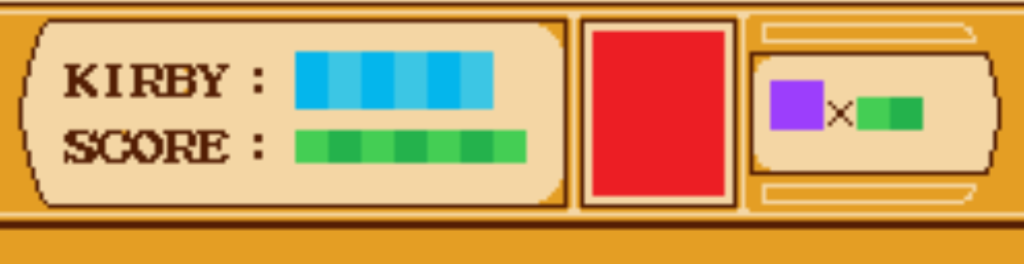
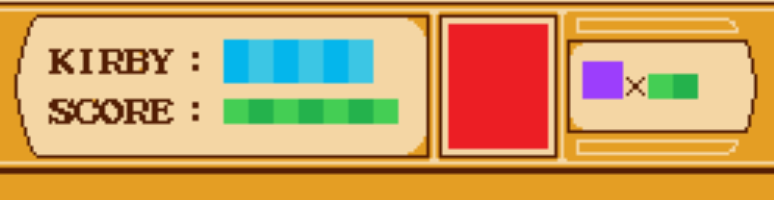
최예나 : UI 추가 및 위치 조정

diff --git a/WinAPI_Portfolio/ContentsProject/Score.h b/WinAPI_Portfolio/ContentsProject/Score.h
@@ -1,0 +1,42 @@
+#pragma once
+
+#include <EngineCore/Actor.h>
+
+class AScore : AActor
+{
+public:
+	// constrcuter destructer
+	AScore();
+	~AScore();
+
+	// delete Function
+	AScore(const AScore& _Other) = delete;
+	AScore(AScore&& _Other) noexcept = delete;
+	AScore& operator=(const AScore& _Other) = delete;
+	AScore& operator=(AScore&& _Other) noexcept = delete;
+
+	void SetTextSpriteName(const std::string _Text);
+
+	void SetTextScale(FVector2D _TextScale)
+	{
+		TextScale = _TextScale;
+	}
+
+	template<typename EnumType>
+	void SetOrder(EnumType _Order)
+	{
+		SetOrder(static_cast<int>(_Order));
+	}
+
+	void SetOrder(int _Order);
+
+	void SetValue(int _Score);
+
+protected:
+
+private:
+	std::string TextSpriteName;
+	FVector2D TextScale;
+	std::vector<class USpriteRenderer*> Renders;
+};
+

diff --git a/WinAPI_Portfolio/ContentsProject/HUI.cpp b/WinAPI_Portfolio/ContentsProject/HUI.cpp
@@ -1,6 +1,7 @@
 #include "PreCompile.h"
 #include "HUI.h"
 
+#include <EngineCore/EngineAPICore.h>
 #include <EngineCore/SpriteRenderer.h>
 
 #include "ContentsEnum.h"
@@ -20,7 +21,10 @@ void AHUI::SetSprite(std::string _Sprite)
 {
 		SpriteRenderer->SetSprite(_Sprite);
 
-		MapScale = SpriteRenderer->SetSpriteScale(0.75f);
-		SpriteRenderer->SetComponentLocation(MapScale.Half() + FVector2D({0, 525}));
+		MapScale = SpriteRenderer->SetSpriteScale(1.0f);
+
+		FVector2D Size = UEngineAPICore::GetCore()->GetMainWindow().GetWindowSize();
+		FVector2D Pos = { 0.0f, Size.Y - MapScale.Y };
+		SpriteRenderer->SetComponentLocation(MapScale.Half() + Pos);
 }
 

diff --git a/WinAPI_Portfolio/ContentsProject/Stage102GameMode.cpp b/WinAPI_Portfolio/ContentsProject/Stage102GameMode.cpp
@@ -25,9 +25,11 @@ void AStage102GameMode::BeginPlay()
 	NewActor = GetWorld()->SpawnActor<AStage>();
 	NewActor->SetSprite("Stage102.png");
 	NewActor->SetColSprite("ColStage102.png");
+
 	APlayer* Player = dynamic_cast<APlayer*>(GetWorld()->GetPawn());
 	Player->GetBackImage("Stage102.png");
 	Player->GetColImage("ColStage102.png");
+	Player->SetActorLocation({ 100, 445 });
 
 	NewUI = GetWorld()->SpawnActor<AHUI>();
 	NewUI->SetSprite("StageUI.png");

diff --git a/WinAPI_Portfolio/ContentsProject/Stage103GameMode.cpp b/WinAPI_Portfolio/ContentsProject/Stage103GameMode.cpp
@@ -24,9 +24,11 @@ void AStage103GameMode::BeginPlay()
 	NewActor = GetWorld()->SpawnActor<AStage>();
 	NewActor->SetSprite("Stage103.png");
 	NewActor->SetColSprite("ColStage103.png");
+
 	APlayer* Player = dynamic_cast<APlayer*>(GetWorld()->GetPawn());
 	Player->GetBackImage("Stage103.png");
 	Player->GetColImage("ColStage103.png");
+	Player->SetActorLocation({ 150, 195 });
 
 	NewUI = GetWorld()->SpawnActor<AHUI>();
 	NewUI->SetSprite("StageUI.png");

diff --git a/WinAPI_Portfolio/ContentsProject/KirbyContentsCore.cpp b/WinAPI_Portfolio/ContentsProject/KirbyContentsCore.cpp
@@ -46,6 +46,7 @@ void KirbyContentsCore::BeginPlay()
 
 	UImageManager::GetInst().CuttingSprite("Kirby_Normal_Left.png", {32, 32});
 	UImageManager::GetInst().CuttingSprite("Kirby_Normal_Right.png", {32, 32});
+	UImageManager::GetInst().CuttingSprite("Lives.png", {43, 37});
 
 	UEngineAPICore::GetCore()->GetMainWindow().SetWindowTitle("Kirby's Adventure");
 

diff --git a/WinAPI_Portfolio/ContentsProject/Stage101GameMode.cpp b/WinAPI_Portfolio/ContentsProject/Stage101GameMode.cpp
@@ -28,6 +28,7 @@ void AStage101GameMode::BeginPlay()
 	APlayer* Player = dynamic_cast<APlayer*>(GetWorld()->GetPawn());
 	Player->GetBackImage("Stage101.png");
 	Player->GetColImage("ColStage101.png");
+	Player->SetActorLocation({ 100, 445 });
 
 	NewUI = GetWorld()->SpawnActor<AHUI>();
 	NewUI->SetSprite("StageUI.png");

diff --git a/WinAPI_Portfolio/ContentsProject/Stage101GameMode.h b/WinAPI_Portfolio/ContentsProject/Stage101GameMode.h
@@ -22,5 +22,6 @@ protected:
 private:
 	class AStage* NewActor = nullptr;
 	class AHUI* NewUI = nullptr;
+	class AHUI* NewLiveUI = nullptr;
 };
 

diff --git a/WinAPI_Portfolio/ContentsProject/KirbyContentsCore.h b/WinAPI_Portfolio/ContentsProject/KirbyContentsCore.h
@@ -21,6 +21,5 @@ protected:
 	void Tick() override;
 
 private:
-	ULevel* TitleLevel;
 };
 
